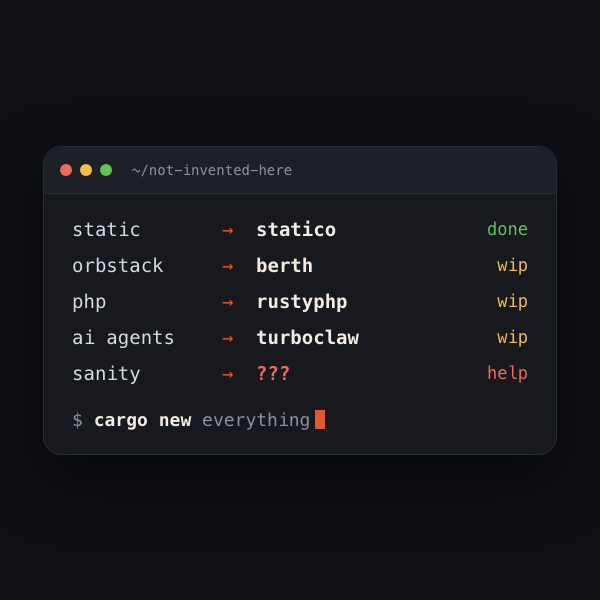
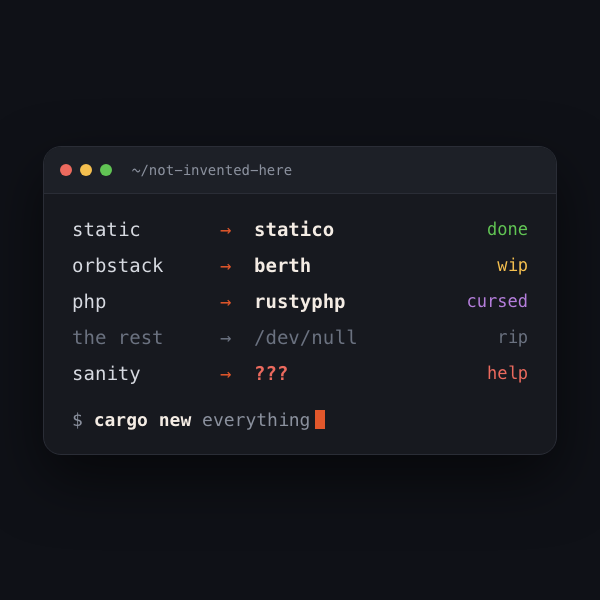
Drop turboclaw, add the graveyard and the cursed screen
Removes turboclaw from the inventory. In its place, a section on the pile of
half-finished repos every vibe coder has, and why dogfooding is the only
honest filter.

rustyphp gets its own section: started it, screen died, not touching it again.
Includes the photo.

Regenerates the terminal image to match — turboclaw out, `the rest ->
/dev/null  rip` in, rustyphp marked cursed.

diff --git a/content/post/not-invented-here.md b/content/post/not-invented-here.md
@@ -18,12 +18,43 @@ Here's the honest state of my "I just want a simple blog" project:
 
 - **[Statico](https://github.com/adrianodias8/statico)** — a static site generator. Replaces Static by DevDojo. It builds this very page. ✅ Done, actually works, I'm using it right now.
 - **berth** — a free, open-source take on OrbStack. Docker and Linux on Apple Silicon, straight onto Virtualization.framework. Because I looked at my container tooling and thought "how hard can it be." 🚧
-- **[rustyphp](https://github.com/adrianodias8/rustyphp)** — a PHP engine. In Rust. I want you to sit with that one for a moment, because I certainly have. 🚧
-- **[turboclaw](https://github.com/adrianodias8/turboclaw)** — my own flavour of AI coding agent, because apparently the ones that exist are someone else's. 🚧
+- **rustyphp** — a PHP engine. In Rust. We'll come back to this one. 💀
 
-I write Drupal and Laravel for a living. PHP has paid for every meal I have eaten in a decade. And here I am, at a terminal, implementing its engine. For fun. Voluntarily.
+That's the part I'm willing to put in a list with a straight face.
 
-At some point "not invented here" stopped being a joke about other teams and became a description of my weekends.
+## ⚰ The Graveyard
+
+Here's the part nobody puts in the list.
+
+For every project above there's a folder of repos where the README is comfortably the most finished artefact in it. Things I started at 11pm with total conviction and abandoned by Thursday, not because they didn't work, but because the interesting problem had already been solved in my head and the remaining 80% was just *typing*.
+
+This is, I think, the actual occupational hazard of vibe coding. Not bad code — bad *follow-through*. When starting something costs an evening instead of a quarter, you start everything. The bottleneck was never the idea. It was the three weeks of grind that used to filter out the ideas that weren't worth it, and that filter is gone now.
+
+So you end up with a graveyard. Every vibe coder has one. Mine has a view.
+
+I've made peace with it, mostly. Some of those repos were genuinely just me learning something with extra steps, and there are worse ways to spend a Tuesday. But I do notice that the three projects I listed above are the three I actually *use*, and I don't think that's coincidence. Dogfooding is the only honest filter I've found: if you don't reach for it on a normal day, it's already in the graveyard, it just hasn't been told yet.
+
+## 💀 rustyphp, or: Signs and Portents
+
+Which brings me to rustyphp.
+
+I write Drupal and Laravel for a living. PHP has paid for every meal I have eaten in a decade. So naturally I decided to implement its engine. In Rust. Voluntarily, in my own time, for fun.
+
+Shortly after I started, my MacBook's screen did this:
+
+![A MacBook screen with two vertical black bands of dead pixels running down it](/assets/images/posts/cursed-screen.jpg)
+
+Two vertical black bars. Straight down the display. Permanently.
+
+Now. I want to be clear that I am a professional and I understand that display failures have physical causes — a flex cable, a panel defect, thermal cycling, the ordinary cruelty of hardware. There is no mechanism by which writing a PHP parser damages a laptop screen.
+
+I understand this.
+
+I am simply observing that I have written PHP for ten years without incident, and that within weeks of attempting to *reimplement* it, my machine developed a permanent visual impairment in the exact region where I had been reading the parser code.
+
+I'm not saying it's related. I'm saying I haven't opened that repo since, and my screen hasn't gotten any worse. Draw your own conclusions. Some things aren't meant to be rewritten, and PHP's engine may well be load-bearing for reality in ways the spec doesn't document.
+
+rustyphp stays where it is. Respectfully. 🙏
 
 ## 🎤 In My Defence, DHH Started It
 
@@ -74,7 +105,7 @@ Partly because it's the most fun I've had programming in years, and I think that
 
 And partly because if the constraint really has moved, the people who find out first will be the ones who went and poked it.
 
-I'll reassess when something catches fire. It'll be fine. Probably. 🦀
+I'll reassess when something catches fire. Something already did catch fire, technically, but it was only the screen. 🦀
 
 ## 🔮 Next: Local Models, and a Very Expensive Laptop
 
@@ -84,7 +115,7 @@ I've been dabbling with running models locally, and so far it's been equal parts
 
 A MacBook Pro M5 Max with 128GB of unified memory arrives later this week. 🎉
 
-That is an amount of RAM that would have run a small hosting company, and I intend to spend it asking local models to write Rust I will then nod at knowingly.
+That is an amount of RAM that would have run a small hosting company, and I intend to spend it asking local models to write Rust I will then nod at knowingly. It also, and I cannot stress this enough, has a **screen that works**.
 
 I'm planning to write up what I actually find, honestly — which models are genuinely usable at that memory, what the speeds really look like rather than what the benchmarks claim, and whether local models are good enough yet to do the sort of work I've been handing to the cloud. Including the bits that don't work, because those posts are more useful and nobody writes them.
 
